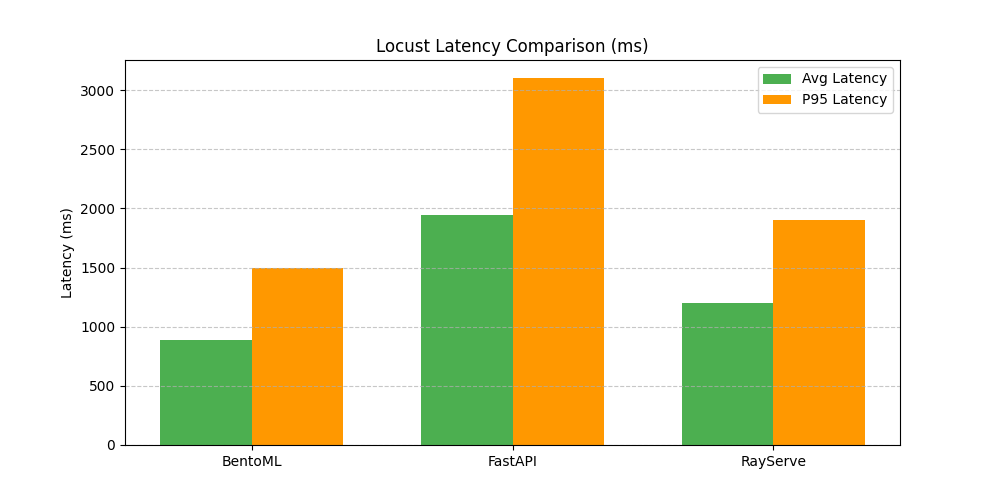
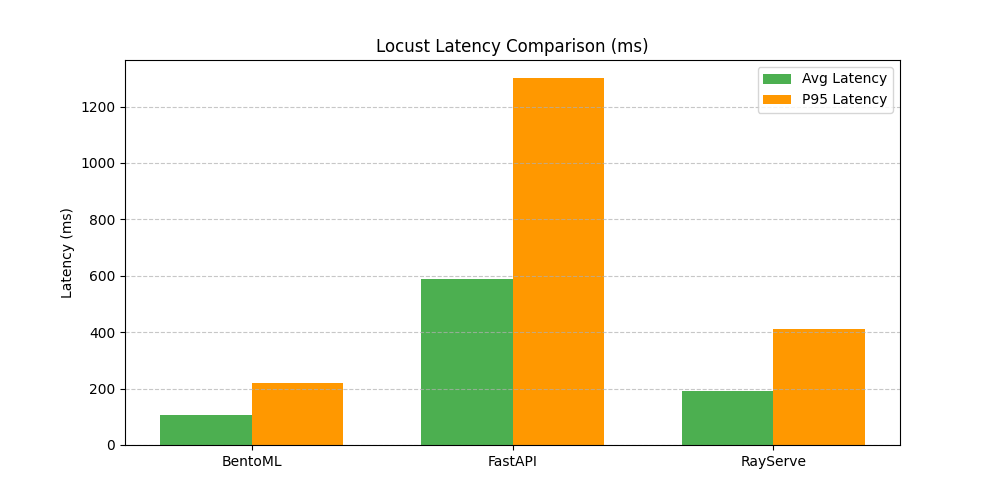
fix bento ml + remove locust service

diff --git a/bentoml_service/service.py b/bentoml_service/service.py
@@ -55,7 +55,7 @@ class MobileNetV2Classifier:
         batchable=True,
         batch_dim=0,
         max_batch_size=8,
-        max_latency_ms=10,
+        #max_latency_ms=500, default 60000
     )
     def predict(self, files: list[Image.Image]) -> list[dict[str, t.Any]]:
         """Predict image class from a batch of images.

diff --git a/reports/locust/locust_comparison.md b/reports/locust/locust_comparison.md
@@ -1,6 +1,6 @@
 # 📈 Locust Load Test Comparison
 
-**Run Date:** 2026-01-16 18:18:28
+**Run Date:** 2026-01-19 16:44:47
 
 ## 📊 Visual Comparison
 ![Throughput](locust_throughput.png)
@@ -10,26 +10,26 @@
 
 | Metric | BentoML | FastAPI | Ray Serve | Winner |
 | :--- | :--- | :--- | :--- | :--- |
-| Throughput (req/s) | 44.50 | 23.26 | 34.93 | **BentoML** |
-| Avg Latency (ms) | 891.35 | 1942.87 | 1199.53 | **BentoML** |
-| P50 Latency (ms) | 1000.00 | 2000.00 | 1400.00 | **BentoML** |
-| P95 Latency (ms) | 1500.00 | 3100.00 | 1900.00 | **BentoML** |
-| P99 Latency (ms) | 1600.00 | 6700.00 | 2100.00 | **BentoML** |
-| Total Requests | 2628.00 | 1359.00 | 2063.00 | **BentoML** |
+| Throughput (req/s) | 26.34 | 21.06 | 25.10 | **BentoML** |
+| Avg Latency (ms) | 105.29 | 587.21 | 191.58 | **BentoML** |
+| P50 Latency (ms) | 92.00 | 600.00 | 170.00 | **BentoML** |
+| P95 Latency (ms) | 220.00 | 1300.00 | 410.00 | **BentoML** |
+| P99 Latency (ms) | 320.00 | 1600.00 | 500.00 | **BentoML** |
+| Total Requests | 1559.00 | 1238.00 | 1483.00 | **BentoML** |
 
 ## 📋 Detailed Results per Service
 
 ### BentoML
-- **Requests:** 2628 (0 failures)
-- **RPS:** 44.50
-- **Latency:** Avg: 891.35ms | P95: 1500.00ms | P99: 1600.00ms | Max: 1693.95ms
+- **Requests:** 1559 (0 failures)
+- **RPS:** 26.34
+- **Latency:** Avg: 105.29ms | P95: 220.00ms | P99: 320.00ms | Max: 388.81ms
 
 ### FastAPI
-- **Requests:** 1359 (0 failures)
-- **RPS:** 23.26
-- **Latency:** Avg: 1942.87ms | P95: 3100.00ms | P99: 6700.00ms | Max: 12382.36ms
+- **Requests:** 1238 (0 failures)
+- **RPS:** 21.06
+- **Latency:** Avg: 587.21ms | P95: 1300.00ms | P99: 1600.00ms | Max: 3134.56ms
 
 ### RayServe
-- **Requests:** 2063 (0 failures)
-- **RPS:** 34.93
-- **Latency:** Avg: 1199.53ms | P95: 1900.00ms | P99: 2100.00ms | Max: 2176.09ms
+- **Requests:** 1483 (0 failures)
+- **RPS:** 25.10
+- **Latency:** Avg: 191.58ms | P95: 410.00ms | P99: 500.00ms | Max: 642.18ms
